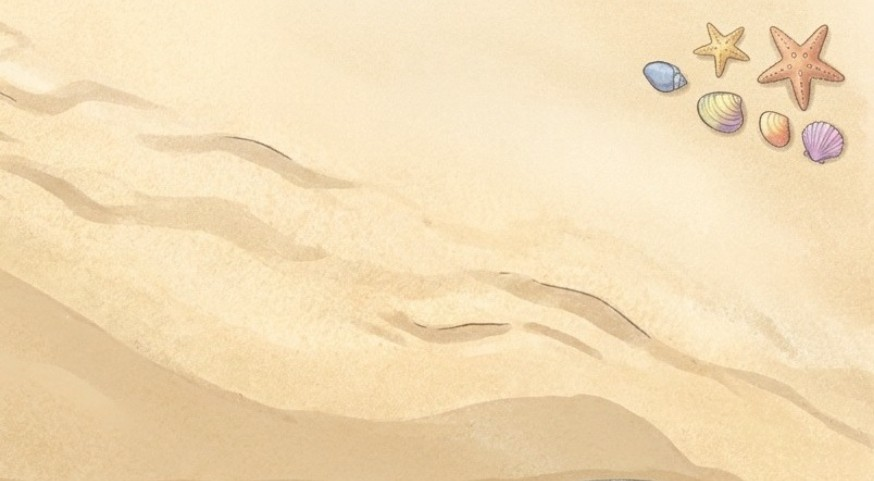
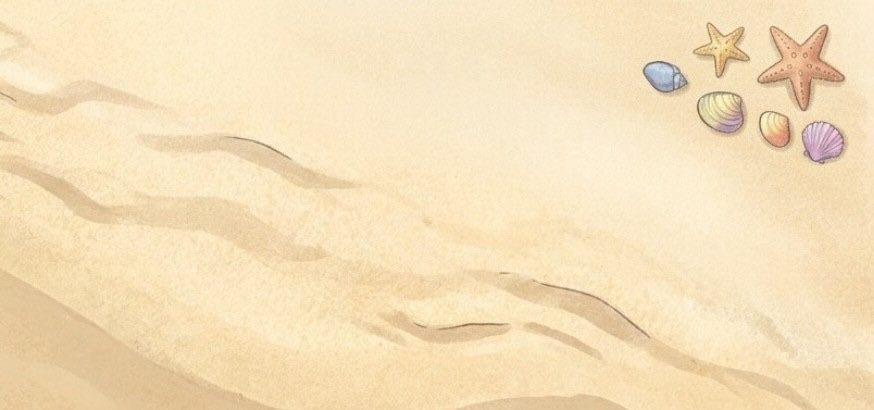
css+js
css:
article-font size, font color, font shadow

js:
filter button action

asset:
add "arrow" icon
cut "beach.jpg"

diff --git a/index.html b/index.html
@@ -57,16 +57,16 @@
         <p>Comforting meals, cool treats, and a splash of summer for your next study break.</p>
         <div class="w3-section w3-bottombar w3-padding-16">
           <span class="w3-margin-right">Filter:</span>
-          <button class="w3-button w3-black">ALL</button>
-          <button class="w3-button w3-white"><img src="assets/icons/lunch.png" alt="Food" style="width:16px;height:16px;margin-right:6px;vertical-align:middle">MEALS</button>
-          <button class="w3-button w3-white w3-hide-small"><img src="assets/icons/cupcake.png" alt="Dessert" style="width:16px;height:16px;margin-right:6px;vertical-align:middle">DESSERTS</button>
+          <button class="w3-button w3-black filter-button"  data-category="all">ALL</button>
+          <button class="w3-button w3-white filter-button"  data-category="meals"><img src="assets/icons/lunch.png" alt="Food" style="width:16px;height:16px;margin-right:6px;vertical-align:middle">MEALS</button>
+          <button class="w3-button w3-white w3-hide-small filter-button"  data-category="desserts"><img src="assets/icons/cupcake.png" alt="Dessert" style="width:16px;height:16px;margin-right:6px;vertical-align:middle">DESSERTS</button>
         </div>
       </div>
     </header>
 
     <!-- Food items grid -->
     <div class="menu-grid" id="menu-grid">
-      <article>
+      <article data-category="meals">
         <img src="assets/images/thai-basil-pork-rice.jpg" alt="Thai basil minced pork and vegetables served with rice and two fried eggs." class="w3-hover-opacity" style="width:100%">
         <div class="w3-container w3-white">
           <p class="card-title">Thai Basil Pork Rice</p>
@@ -74,7 +74,7 @@
           <p class="card-desc">Savory minced pork with fragrant basil and vegetables, served over fluffy rice and topped with two sunny-side-up eggs. A hearty pick for a busy day.</p>
         </div>
       </article>
-      <article>
+      <article data-category="meals">
         <img src="assets/images/chicken-oyakodon-bowl.jpg" alt="Chicken and egg rice bowl topped with green onions, sesame, and vegetables." class="w3-hover-opacity" style="width:100%">
         <div class="w3-container w3-white">
           <p class="card-title">Chicken Oyakodon Bowl</p>
@@ -82,7 +82,7 @@
           <p class="card-desc">A comforting rice bowl with tender chicken, egg, and sweet onions, finished with a sprinkle of green onions and sesame.</p>
         </div>
       </article>
-      <article>
+      <article data-category="meals">
         <img src="assets/images/taiwanese-fish-ball-noodle-soup.jpg" alt="Taiwanese noodle soup with fish balls, sliced chicken, and green vegetables." class="w3-hover-opacity" style="width:100%">
         <div class="w3-container w3-white">
           <p class="card-title">Taiwanese Fish Ball Noodle Soup</p>
@@ -90,7 +90,7 @@
           <p class="card-desc">Springy fish balls, sliced chicken, noodles, and fresh greens in a light, savory broth. A warm bowl of comfort between classes.</p>
         </div>
       </article>
-      <article>
+      <article data-category="meals">
         <img src="assets/images/roasted-chicken-set-meal.jpg" alt="Roasted chicken leg set with rice, vegetables, and small side dishes." class="w3-hover-opacity" style="width:100%">
         <div class="w3-container w3-white">
           <p class="card-title">Roasted Chicken Set Meal</p>
@@ -98,7 +98,7 @@
           <p class="card-desc">A golden roasted chicken leg served with steamed rice, vegetables, and tasty sides. Everything you need in one satisfying plate.</p>
         </div>
       </article>
-      <article>
+      <article data-category="meals">
         <img src="assets/images/tomato-udon-soup.jpg" alt="Tomato broth udon with sliced meat, egg, green onions, and fish cake." class="w3-hover-opacity" style="width:100%">
         <div class="w3-container w3-white">
           <p class="card-title">Tomato Udon Soup</p>
@@ -106,7 +106,7 @@
           <p class="card-desc">Thick udon noodles in a tangy tomato broth with sliced meat, egg, and green onions. Bright, savory, and wonderfully comforting.</p>
         </div>
       </article>
-      <article>
+      <article data-category="meals">
         <img src="assets/images/beef-and-egg-noodles.jpg" alt="Beef slices and a fried egg served over noodles in a dark bowl." class="w3-hover-opacity" style="width:100%">
         <div class="w3-container w3-white">
           <p class="card-title">Beef and Egg Noodles</p>
@@ -114,7 +114,7 @@
           <p class="card-desc">Juicy beef slices and a sunny-side-up egg over a bowl of noodles. A filling favorite when you need an energy boost.</p>
         </div>
       </article>
-      <article>
+      <article data-category="meals">
         <img src="assets/images/chilled-pork-noodle-bowl.jpg" alt="Chilled noodles topped with pork, edamame, cucumber, lotus root, and corn." class="w3-hover-opacity" style="width:100%">
         <div class="w3-container w3-white">
           <p class="card-title">Chilled Pork Noodle Bowl</p>
@@ -122,7 +122,7 @@
           <p class="card-desc">A colorful bowl of chilled noodles with sliced pork, edamame, cucumber, lotus root, and sweet corn, finished with a savory sauce.</p>
         </div>
       </article>
-      <article>
+      <article data-category="desserts">
         <img src="assets/images/watermelon-snow-ice.jpg" alt="White shaved milk ice generously topped with red watermelon cubes." class="w3-hover-opacity" style="width:100%">
         <div class="w3-container w3-white">
           <p class="card-title">Watermelon Snow Ice</p>
@@ -130,7 +130,7 @@
           <p class="card-desc">Light, fluffy shaved milk ice topped with juicy watermelon cubes. A refreshing little escape on a sunny afternoon.</p>
         </div>
       </article>
-      <article>
+      <article data-category="desserts">
         <img src="assets/images/mango-snow-ice.jpg" alt="A bowl of yellow shaved milk ice topped with fresh mango chunks." class="w3-hover-opacity" style="width:100%">
         <div class="w3-container w3-white">
           <p class="card-title">Mango Snow Ice</p>
@@ -138,7 +138,7 @@
           <p class="card-desc">Delicate ribbons of shaved milk ice piled high with sweet mango pieces and a fruity drizzle. Bright, tropical, and irresistible.</p>
         </div>
       </article>
-      <article>
+      <article data-category="desserts">
         <img src="assets/images/peanut-rice-dumplings.jpg" alt="White glutinous rice dumplings with peanut powder in a dark sweet sauce." class="w3-hover-opacity" style="width:100%">
         <div class="w3-container w3-white">
           <p class="card-title">Peanut Rice Dumplings</p>

diff --git a/js/script.js b/js/script.js
@@ -16,6 +16,7 @@ function w3_close() {
   const ITEMS_PER_PAGE = 6;
   const grid = document.getElementById('menu-grid');
   const bar  = document.getElementById('pagination-bar');
+  // const buy = document.getElementsByTagName("article");
 
   if (!grid || !bar) return;
   const articles   = Array.from(grid.querySelectorAll('article'));
@@ -73,6 +74,9 @@ function w3_close() {
     return a;
   }
 
+
+
+  
   buildBar();
   showPage(1);
 
@@ -254,4 +258,32 @@ function triggerDolphinJump() {
       overlay.style.display = "none";
     }, 800);
   });
+});
+
+
+const filterBtn = document.querySelectorAll(".filter-button");
+
+filterBtn.forEach(function(button) {
+    button.addEventListener("click", function() {
+        const category = button.dataset.category;
+        const items = document.querySelectorAll(".menu-grid article");
+
+        filterBtn.forEach(function(button) {
+            if (category === button.dataset.category) {
+                button.classList.remove("w3-white");
+                button.classList.add("w3-black");
+            } else {
+                button.classList.remove("w3-black");
+                button.classList.add("w3-white");
+            }
+        });
+
+        items.forEach(function(item) {
+            if (category === "all" || item.dataset.category === category) {
+                item.style.display = "";
+            } else {
+                item.style.display = "none";
+            }
+        });
+    });
 });

diff --git a/css/style.css b/css/style.css
@@ -48,7 +48,7 @@ body.w3-light-grey {
   flex: 1;
   display: flex;
   flex-direction: column;
-  background-image: src('WEB/assets/images/beach.jpg'); 
+  background-image: url("../assets/images/beach.jpg"); 
   background-size: cover;
   background-position: center;
   background-repeat: no-repeat;
@@ -64,11 +64,11 @@ body.w3-light-grey {
   line-height: 1.4;
   margin: 0 0 4px;
   word-break: break-word;   
-  color: #ffffff;
+  color: #6b4949;
   font-family: 'Playfair Display', serif;
   font-size: 1.1rem;
   font-weight: 700;
-  text-shadow: 0 1px 6px rgba(0,0,0,0.65), 0 0 2px rgba(0,0,0,0.4);
+  text-shadow: 0 1px 1px rgba(0,0,0,0.65), 0 0 2px rgba(0,0,0,0.4);
 }
 
 /* 類別 · 價格 */
@@ -77,8 +77,8 @@ body.w3-light-grey {
   font-family: 'Lato', sans-serif;
   font-size: 0.82rem;
   letter-spacing: 0.05em;
-  color: #ffffff;
-  text-shadow: 0 1px 4px rgba(0,0,0,0.55);
+  color: #806559;
+  text-shadow: 0 1px 1px rgba(0,0,0,0.55);
 }
 
 /* 說明文字 */
@@ -87,8 +87,8 @@ body.w3-light-grey {
   font-family: 'Lato', sans-serif;
   font-size: 0.92rem;
   line-height: 1.75;
-  color: #ffffff;
-  text-shadow: 0 1px 4px rgba(0,0,0,0.55);
+  color: #806559;
+  text-shadow: 0 1px 1px rgba(0,0,0,0.55);
 }
 
 /* == SVG == */
